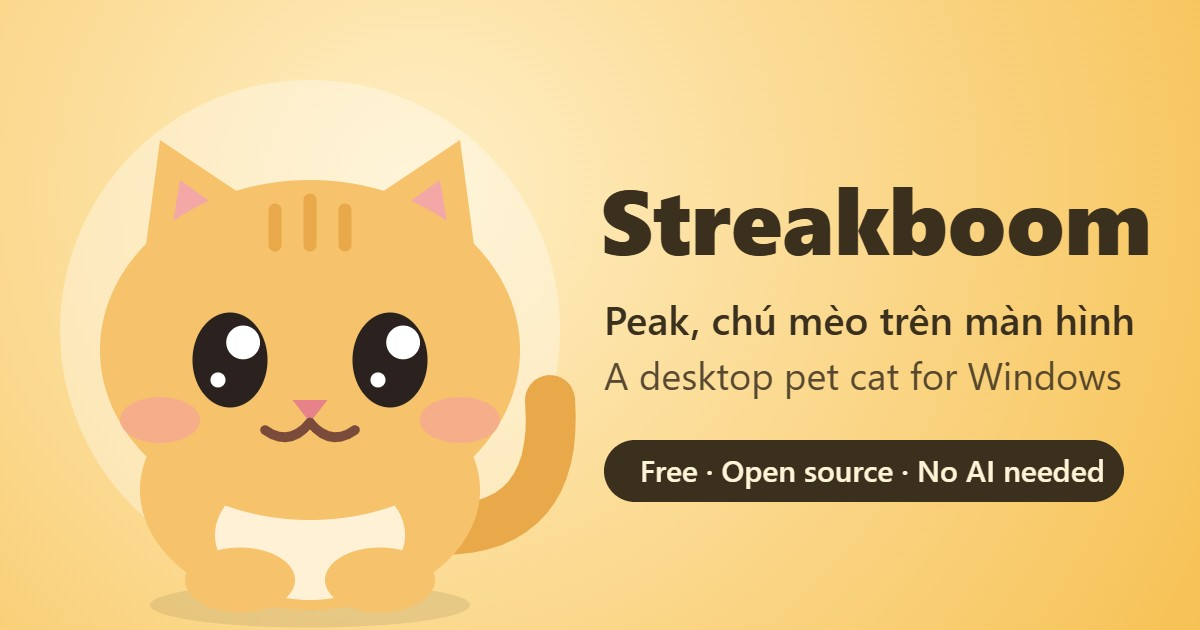
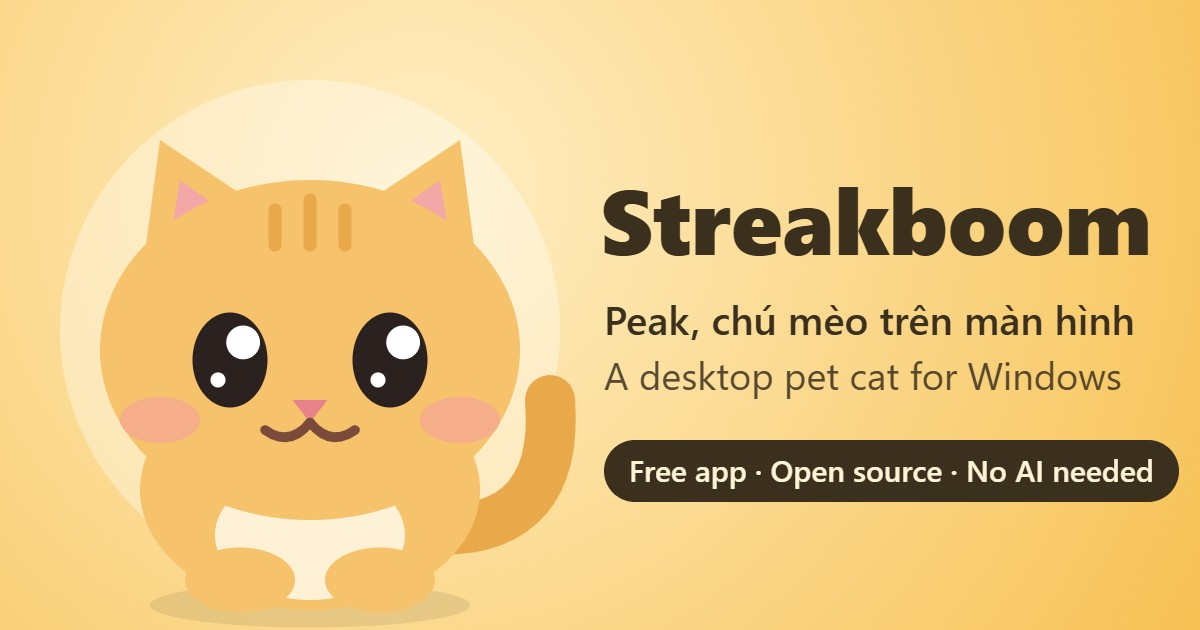
Landing page: read release notes from CHANGELOG.md, sync copy with README
GitHub now keeps only the two newest releases (ADR-0028), so the updates
section reads CHANGELOG.md from the repository (newest three entries,
rendered as text, never as HTML). If that fails it falls back to
updates/latest.json, then to a link to the changelog; the page does not
break. The download button always points at releases/latest and the
install step builds the installer name from the newest changelog version.
The GitHub API is no longer used.

Copy: the AI daily limit and Peak declining in its own words are in the
brain feature; the gentle-tone switch is mentioned; the hero says the app
is free (the AI brain is billed by the provider); the credit line matches
the README (three concept sketches, rig written with Claude, no image
files for the cat, MIT). The share image says "Free app".

README: the Website section now describes the changelog-based updates.

Changed region(s): [[0.5242, 0.6937, 0.9867, 0.8143]]

diff --git a/site/i18n.js b/site/i18n.js
@@ -5,7 +5,7 @@ export const STRINGS = {
     title: "Streakboom: meet Peak, a desktop pet cat",
     nav_features: "Features", nav_install: "Install", nav_privacy: "Privacy", nav_faq: "FAQ", nav_updates: "Updates",
     hero_title: "A little cat that lives on your screen.",
-    hero_lead: "Meet <strong>Peak</strong>, a cheerful golden chibi cat. It reacts when you stroke, poke or carry it, says short lines in Vietnamese or English, and keeps you company. Free and open source, for Windows.",
+    hero_lead: "Meet <strong>Peak</strong>, a cheerful golden chibi cat. It reacts when you stroke, poke or carry it, says short lines in Vietnamese or English, and keeps you company. The app is free and open source, for Windows.",
     download: "Download for Windows", latest_release: "latest release", see_more: "See what it does",
     share_btn: "Send link to my PC", link_copied: "Link copied",
     other_os: "Peak runs on Windows 10/11, so this device cannot install it. Send the link to your PC and download it there.",
@@ -15,9 +15,9 @@ export const STRINGS = {
     pose_idle: "Idle", pose_happy: "Happy", pose_purr: "Purr", pose_sleep: "Sleep", pose_walk: "Walk", pose_gasp: "Surprised", pose_sad: "Sad", pose_curious: "Curious",
     feat_title: "A companion, not an assistant",
     feat_sub: "Lovable with no AI at all. Bring your own key if you want it to chat.",
-    f1_h: "🐈 Alive without AI", f1_p: "A mood and closeness model, 182 hand-written lines per language, quiet hours, and no guilt: it never dies or starves, it only gets a bit lonely.",
+    f1_h: "🐈 Alive without AI", f1_p: "A mood and closeness model, 182 hand-written lines per language (the sarcastic ones can be turned off with \"gentle tone\"), quiet hours, and no guilt: it never dies or starves, it only gets a bit lonely.",
     f2_h: "👆 Gestures, not buttons", f2_p: "Sweep over its head to scratch, over its belly to rub (it usually loves it; sometimes it is a trap), click to poke, drag to carry it. Its eyes follow your cursor when it is over the pet.",
-    f3_h: "🧠 Bring your own brain", f3_p: "Add your own Gemini, Claude or OpenAI key and double-click to chat. It answers in the language you write in, and each answer comes with a feeling the pet acts out. Your key stays on your computer.",
+    f3_h: "🧠 Bring your own brain", f3_p: "Add your own Gemini, Claude or OpenAI key and double-click to chat. Some of its unprompted lines are then written by the model too, within a daily limit (60 chat turns and 6 unprompted lines); when Peak has talked enough it says so in its own words. It answers in the language you write in, and each answer comes with a feeling the pet acts out. Your key stays on your computer.",
     f4_h: "💭 Remembers a little", f4_p: "A name for the pet (you choose; after a day or two it asks), what to call you, a usual part of the day, milestones, and, if you have a brain, a few short facts from your chats (you can switch that off). You can see, edit or forget all of it in Settings, Memory.",
     f5_h: "🤫 Polite", f5_p: "Quiet in fullscreen apps, during quiet hours and in Quiet mode. Never takes keyboard focus for plain speech.",
     f6_h: "🍃 Light", f6_p: "About 100 to 120 MB of memory and almost no CPU while it stands still (measured on one machine so far).",
@@ -45,9 +45,9 @@ export const STRINGS = {
     q4: "Does it work on Mac or Linux?", a4: "Not yet. It is Windows 10/11 only for now. A macOS version is an open idea with no date.",
     q5: "How do I get updates?", a5: "Peak can update itself: install automatically when you are idle, ask first (the default), or never check. Updates are signed and only installed if the signature checks out. If you have an old development build (0.1.x) that does not update itself, install the latest release once by hand; after that it updates normally.",
     upd_title: "Latest updates",
-    upd_sub: "Pulled live from <a href=\"https://github.com/vinhcodon/streakboom/releases\">GitHub Releases</a>. Release notes are in English.",
-    notes_more: "Full notes", loading: "Loading releases…", rss: "Subscribe via RSS", load_fail: "Could not load releases. See GitHub Releases.",
-    foot_a: "MIT License. Made by Vinh Nguyen. Peak is an original character: the author chose the \"mochi cat\" direction from concept sketches proposed by Claude, an AI assistant made by Anthropic, and the animation rig was written with Claude's help. The cat is drawn entirely as vector shapes in code.",
+    upd_sub: "From the <a href=\"https://github.com/vinhcodon/streakboom/blob/main/CHANGELOG.md\">changelog</a> in the repository, newest first. Notes are in English. GitHub Releases keeps only the two newest versions; the changelog keeps them all.",
+    loading: "Loading releases…", rss: "Subscribe to releases (RSS)", load_fail: "Could not load the changelog. Open it on GitHub.",
+    foot_a: "MIT License. Made by Vinh Nguyen. Peak is an original character: the author chose the \"mochi cat\" direction from three concept sketches proposed by Claude, an AI assistant made by Anthropic, and the animation rig was written with Claude's help. The app has no image files for the cat: it is drawn entirely as vector shapes in code, under the same MIT license. The icons and the share image on this site are generated from that same code.",
     foot_bug: "Report a bug",
     f7_h: "🔄 Updates your way",
     f7_p: "It can install updates automatically when you are idle, ask first (the default), or never check. It can also start with Windows (off by default; it asks once, politely).",
@@ -59,12 +59,13 @@ export const STRINGS = {
     a6: "Gemini, Claude and OpenAI are all built in; you bring your own key. Gemini has been tried with a real key. The Claude and OpenAI brains have not yet been tried with real keys, so they may still have rough edges. A Claude Pro/Team or ChatGPT Plus subscription does not include API access; the API is billed separately.",
     q7: "Is there a limit on chatting?",
     a7: "Yes, a daily cap protects your provider's quota and your spending: 60 chat messages and 6 unprompted lines a day. When Peak has talked enough it says so in its own words, with no numbers, and the count resets at midnight.",
+    full_changelog: "Full changelog",
   },
   vi: {
     title: "Streakboom: gặp Peak, chú mèo thú cưng trên màn hình",
     nav_features: "Tính năng", nav_install: "Cài đặt", nav_privacy: "Riêng tư", nav_faq: "Hỏi đáp", nav_updates: "Cập nhật",
     hero_title: "Một chú mèo nhỏ sống trên màn hình của bạn.",
-    hero_lead: "Gặp <strong>Peak</strong>, chú mèo chibi màu vàng vui vẻ. Peak phản ứng khi bạn vuốt ve, chọc hay bế nó, nói vài câu ngắn bằng tiếng Việt hoặc tiếng Anh và ở bên bạn lúc làm việc. Miễn phí, mã nguồn mở, dành cho Windows.",
+    hero_lead: "Gặp <strong>Peak</strong>, chú mèo chibi màu vàng vui vẻ. Peak phản ứng khi bạn vuốt ve, chọc hay bế nó, nói vài câu ngắn bằng tiếng Việt hoặc tiếng Anh và ở bên bạn lúc làm việc. Ứng dụng miễn phí và mã nguồn mở, dành cho Windows.",
     download: "Tải về cho Windows", latest_release: "bản mới nhất", see_more: "Xem Peak làm được gì",
     share_btn: "Gửi liên kết sang máy tính", link_copied: "Đã sao chép liên kết",
     other_os: "Peak chạy trên Windows 10/11 nên thiết bị này không cài được. Hãy gửi liên kết sang máy tính của bạn rồi tải về ở đó.",
@@ -74,9 +75,9 @@ export const STRINGS = {
     pose_idle: "Đứng yên", pose_happy: "Vui", pose_purr: "Rù rù", pose_sleep: "Ngủ", pose_walk: "Đi dạo", pose_gasp: "Giật mình", pose_sad: "Buồn", pose_curious: "Tò mò",
     feat_title: "Một người bạn đồng hành, không phải trợ lý",
     feat_sub: "Đáng yêu mà không cần AI. Muốn trò chuyện thì mang khóa API của riêng bạn.",
-    f1_h: "🐈 Sống động không cần AI", f1_p: "Có mô hình tâm trạng và độ thân thiết, 182 câu viết tay cho mỗi ngôn ngữ, giờ yên tĩnh, và không gây áp lực: nó không chết hay đói, chỉ hơi buồn khi vắng bạn.",
+    f1_h: "🐈 Sống động không cần AI", f1_p: "Có mô hình tâm trạng và độ thân thiết, 182 câu viết tay cho mỗi ngôn ngữ (các câu châm chọc có thể tắt bằng \"giọng nhẹ nhàng\"), giờ yên tĩnh, và không gây áp lực: nó không chết hay đói, chỉ hơi buồn khi vắng bạn.",
     f2_h: "👆 Cử chỉ thay cho nút bấm", f2_p: "Lướt qua đầu để gãi, qua bụng để xoa (thường nó rất thích, nhưng đôi khi là một cái bẫy), bấm để chọc, kéo để xách nó đi. Mắt nó nhìn theo con trỏ khi con trỏ ở trên nó.",
-    f3_h: "🧠 Mang bộ não của riêng bạn", f3_p: "Thêm khóa Gemini, Claude hoặc OpenAI của riêng bạn rồi bấm đúp để trò chuyện. Nó trả lời bằng ngôn ngữ bạn viết, và mỗi câu trả lời đi kèm một cảm xúc mà thú cưng diễn ra. Khóa của bạn chỉ nằm trên máy bạn.",
+    f3_h: "🧠 Mang bộ não của riêng bạn", f3_p: "Thêm khóa Gemini, Claude hoặc OpenAI của riêng bạn rồi bấm đúp để trò chuyện. Một số câu Peak tự nói khi bạn không làm gì cũng do mô hình viết, trong một giới hạn mỗi ngày (60 lượt trò chuyện và 6 câu tự nói); khi đã nói đủ, Peak tự nói điều đó bằng lời của mình. Nó trả lời bằng ngôn ngữ bạn viết, và mỗi câu trả lời đi kèm một cảm xúc mà thú cưng diễn ra. Khóa của bạn chỉ nằm trên máy bạn.",
     f4_h: "💭 Nhớ một chút", f4_p: "Tên cho thú cưng (bạn đặt; sau một hai ngày nó sẽ hỏi), cách gọi bạn, buổi trong ngày bạn hay dùng máy, các cột mốc, và nếu có bộ não thì thêm vài sự thật ngắn từ cuộc trò chuyện (có thể tắt). Bạn xem, sửa hoặc xóa tất cả trong Cài đặt, Bộ nhớ.",
     f5_h: "🤫 Lịch sự", f5_p: "Im lặng khi bạn dùng ứng dụng toàn màn hình, trong giờ yên tĩnh và ở chế độ Yên tĩnh. Không giành bàn phím khi chỉ nói chuyện thường.",
     f6_h: "🍃 Nhẹ", f6_p: "Khoảng 100 đến 120 MB bộ nhớ và gần như không tốn CPU khi đứng yên (mới đo trên một máy).",
@@ -104,9 +105,9 @@ export const STRINGS = {
     q4: "Có chạy trên Mac hoặc Linux không?", a4: "Chưa. Hiện chỉ có Windows 10/11. Bản macOS mới chỉ là ý tưởng, chưa có thời gian cụ thể.",
     q5: "Làm sao để nhận bản cập nhật?", a5: "Peak có thể tự cập nhật: tự cài khi bạn rảnh, hỏi trước (mặc định), hoặc không kiểm tra. Bản cập nhật được ký số và chỉ cài khi chữ ký hợp lệ. Nếu bạn đang dùng bản phát triển cũ (0.1.x) không tự cập nhật được, hãy cài bản mới nhất thủ công một lần; sau đó nó cập nhật bình thường.",
     upd_title: "Cập nhật mới nhất",
-    upd_sub: "Lấy trực tiếp từ <a href=\"https://github.com/vinhcodon/streakboom/releases\">GitHub Releases</a>. Ghi chú phát hành bằng tiếng Anh.",
-    notes_more: "Xem đầy đủ", loading: "Đang tải các bản phát hành…", rss: "Đăng ký qua RSS", load_fail: "Không tải được danh sách bản phát hành. Xem GitHub Releases.",
-    foot_a: "Giấy phép MIT. Tác giả Vinh Nguyen. Peak là nhân vật gốc: tác giả chọn hướng \"mèo mochi\" từ các bản phác thảo do Claude, một trợ lý AI của Anthropic, đề xuất, và bộ khung hoạt họa được viết với sự hỗ trợ của Claude. Chú mèo được vẽ hoàn toàn bằng các hình vector trong mã.",
+    upd_sub: "Lấy từ <a href=\"https://github.com/vinhcodon/streakboom/blob/main/CHANGELOG.md\">changelog</a> trong kho mã, mới nhất ở trên. Ghi chú bằng tiếng Anh. GitHub Releases chỉ giữ hai phiên bản mới nhất; changelog giữ tất cả.",
+    loading: "Đang tải các bản phát hành…", rss: "Đăng ký theo dõi bản phát hành (RSS)", load_fail: "Không tải được changelog. Mở nó trên GitHub.",
+    foot_a: "Giấy phép MIT. Tác giả Vinh Nguyen. Peak là nhân vật gốc: tác giả chọn hướng \"mèo mochi\" từ ba bản phác thảo do Claude, một trợ lý AI của Anthropic, đề xuất, và bộ khung hoạt họa được viết với sự hỗ trợ của Claude. Ứng dụng không có file ảnh nào cho chú mèo: nó được vẽ hoàn toàn bằng các hình vector trong mã, cùng giấy phép MIT. Biểu tượng và ảnh chia sẻ trên trang này được tạo ra từ chính đoạn mã đó.",
     foot_bug: "Báo lỗi",
     f7_h: "🔄 Cập nhật theo ý bạn",
     f7_p: "Peak có thể tự cài bản cập nhật khi bạn rảnh, hỏi trước (mặc định), hoặc không kiểm tra. Nó cũng có thể khởi động cùng Windows (mặc định tắt; nó chỉ hỏi một lần, lịch sự).",
@@ -118,6 +119,7 @@ export const STRINGS = {
     a6: "Gemini, Claude và OpenAI đều được tích hợp sẵn; bạn mang khóa của riêng mình. Gemini đã được thử với khóa thật. Bộ não Claude và OpenAI chưa được thử với khóa thật nên có thể còn trục trặc. Gói Claude Pro/Team hay ChatGPT Plus không bao gồm quyền truy cập API; API được tính phí riêng.",
     q7: "Trò chuyện có bị giới hạn không?",
     a7: "Có, một mức trần mỗi ngày để bảo vệ hạn mức và chi phí của bạn ở nhà cung cấp: 60 tin nhắn trò chuyện và 6 câu Peak tự nói mỗi ngày. Khi Peak đã nói đủ, nó tự nói điều đó bằng lời của mình, không có con số, và bộ đếm được đặt lại lúc nửa đêm.",
+    full_changelog: "Toàn bộ changelog",
   },
 };
 

diff --git a/site/app.js b/site/app.js
@@ -1,72 +1,85 @@
-// Entry point: language, the interactive Peak, and the download button and updates list from GitHub Releases.
-// If the API fails or is rate limited, the static fallback links in index.html still work.
+// Entry point: language, the interactive Peak, the download button and the "updates" list.
+// The download button always points at the latest release page (never at a version-specific link, since
+// GitHub keeps only the two newest releases). The version, date and notes come from CHANGELOG.md in the
+// repository, so a new release needs no change here.
 import { applyLang, lang, t } from "./i18n.js";
 import { startPeak } from "./peak.js";
 
 const REPO = "vinhcodon/streakboom";
-const API = `https://api.github.com/repos/${REPO}/releases?per_page=5`;
-const MANIFEST = `https://raw.githubusercontent.com/${REPO}/main/updates/latest.json`;
+const RAW = `https://raw.githubusercontent.com/${REPO}/main`;
+const CHANGELOG_URL = `${RAW}/CHANGELOG.md`;
+const MANIFEST_URL = `${RAW}/updates/latest.json`; // fallback: newest version and its notes only
+const CHANGELOG_PAGE = `https://github.com/${REPO}/blob/main/CHANGELOG.md`;
+const SHOW = 3; // newest entries shown
 
-const btn = document.getElementById("download-btn");
 const meta = document.getElementById("download-meta");
 const list = document.getElementById("release-list");
-let releases = null;
+let entries = null; // [{ version, date, title, items: [text] }] newest first, or null while loading
 let failed = false;
 
-const fmtDate = (iso) => new Date(iso).toLocaleDateString(lang === "vi" ? "vi-VN" : "en-US", { year: "numeric", month: "short", day: "numeric" });
+const fmtDate = (iso) => {
+  const d = new Date(iso);
+  return isNaN(d) ? "" : d.toLocaleDateString(lang === "vi" ? "vi-VN" : "en-US", { year: "numeric", month: "short", day: "numeric" });
+};
+
+/** "## 0.2.1 (2026-11-08), a title" headings, each followed by "- " bullets (wrapped lines are joined). */
+export function parseChangelog(text) {
+  const out = [];
+  let cur = null;
+  for (const raw of text.split(/\r?\n/)) {
+    const h = raw.match(/^##\s+(\d+\.\d+\.\d+[^\s(]*)\s*(?:\((\d{4}-\d{2}-\d{2})\))?\s*,?\s*(.*)$/);
+    if (h) {
+      cur = { version: h[1], date: h[2] || "", title: h[3].trim(), items: [] };
+      out.push(cur);
+    } else if (/^#{1,2}\s/.test(raw)) {
+      cur = null; // some other heading ends the entry
+    } else if (cur && /^-\s+/.test(raw)) {
+      cur.items.push(raw.replace(/^-\s+/, "").trim());
+    } else if (cur && cur.items.length && /^\s+\S/.test(raw)) {
+      cur.items[cur.items.length - 1] += " " + raw.trim();
+    }
+  }
+  return out.filter((e) => e.items.length);
+}
 
 function renderReleases() {
   list.textContent = "";
   if (failed) {
     const li = document.createElement("li");
     const a = document.createElement("a");
-    a.href = `https://github.com/${REPO}/releases`;
+    a.href = CHANGELOG_PAGE;
     a.textContent = t("load_fail");
     li.append(a);
     list.append(li);
     return;
   }
-  if (!releases) return;
-  for (const r of releases) {
+  if (!entries) return;
+  for (const e of entries.slice(0, SHOW)) {
     const li = document.createElement("li");
     const h = document.createElement("h3");
-    const a = document.createElement("a");
-    a.href = r.html_url;
-    a.textContent = r.name || r.tag_name;
-    h.append(a);
+    h.textContent = `Streakboom ${e.version}`;
     const m = document.createElement("div");
     m.className = "meta";
-    m.textContent = fmtDate(r.published_at);
-    li.append(h, m);
-    if (r.body) {
-      const pre = document.createElement("pre");
-      pre.textContent = r.body; // textContent: release notes are never injected as HTML
-      const more = document.createElement("a");
-      more.className = "more";
-      more.href = r.html_url;
-      more.textContent = t("notes_more");
-      li.append(pre, more);
+    m.textContent = [e.date && fmtDate(e.date), e.title].filter(Boolean).join(" · ");
+    const ul = document.createElement("ul");
+    for (const text of e.items) {
+      const item = document.createElement("li");
+      item.textContent = text; // textContent: changelog text is never injected as HTML
+      ul.append(item);
     }
+    li.append(h, m, ul);
     list.append(li);
   }
 }
 
 function renderDownload() {
-  const latest = releases?.[0];
+  const latest = entries?.[0];
   if (!latest) return;
-  const exe = latest.assets.find((a) => a.name.endsWith("-setup.exe"));
-  // the install step names the real file; with no asset list (manifest fallback) the name follows the version
+  // the install step names the real file for the current version
   const exeName = document.getElementById("exe-name");
-  if (exeName) exeName.textContent = exe ? exe.name : `Streakboom_${latest.tag_name.replace(/^v/, "")}_x64-setup.exe`;
+  if (exeName) exeName.textContent = `Streakboom_${latest.version}_x64-setup.exe`;
   meta.removeAttribute("data-i18n");
-  if (exe) {
-    btn.href = exe.browser_download_url;
-    document.getElementById("direct-dl").href = exe.browser_download_url;
-    meta.textContent = `${latest.tag_name} · ${(exe.size / 1048576).toFixed(0)} MB · ${fmtDate(latest.published_at)}`;
-  } else {
-    // no direct link known: the button keeps pointing at "releases/latest"
-    meta.textContent = `${latest.tag_name} · ${fmtDate(latest.published_at)}`;
-  }
+  meta.textContent = [`v${latest.version}`, latest.date && fmtDate(latest.date)].filter(Boolean).join(" · ");
 }
 
 // Peak is Windows only. On a phone, a Mac or Linux the .exe is useless, so offer to send the link to a PC instead.
@@ -102,37 +115,28 @@ applyLang();
 
 startPeak(document.getElementById("peak"), document.getElementById("poses"));
 
-// The GitHub API sometimes answers 5xx or is rate limited. The release script also commits the update
-// manifest to the repository (served by raw.githubusercontent.com, which stayed up when the API did not),
-// so if the API fails we still show the latest version and its notes from there.
-async function getJson(url, headers) {
-  const res = await fetch(url, { headers, signal: AbortSignal.timeout(8000) });
+async function getText(url) {
+  const res = await fetch(url, { signal: AbortSignal.timeout(8000) });
   if (!res.ok) throw new Error(res.status);
-  return res.json();
+  return res.text();
 }
 
-async function loadReleases() {
+async function loadEntries() {
   try {
-    const list = (await getJson(API, { Accept: "application/vnd.github+json" })).filter((r) => !r.draft && !r.prerelease);
-    if (list.length) return list;
+    const parsed = parseChangelog(await getText(CHANGELOG_URL));
+    if (parsed.length) return parsed;
   } catch {
-    // fall through to the manifest
+    // fall through to the update manifest
   }
-  const m = await getJson(MANIFEST);
-  return [{
-    name: `Streakboom ${m.version}`,
-    tag_name: `v${m.version}`,
-    html_url: `https://github.com/${REPO}/releases/latest`,
-    published_at: m.pub_date,
-    body: m.notes,
-    assets: [],
-  }];
+  // the manifest (committed by the release script) has the newest version and its notes as one paragraph
+  const m = JSON.parse(await getText(MANIFEST_URL));
+  return [{ version: m.version, date: (m.pub_date || "").slice(0, 10), title: "", items: [m.notes].filter(Boolean) }];
 }
 
 try {
-  releases = await loadReleases();
+  entries = await loadEntries();
 } catch {
-  failed = true;
+  failed = true; // offline or blocked: the download button and the links still work
 }
 renderReleases();
 renderDownload();

diff --git a/site/index.html b/site/index.html
@@ -53,7 +53,7 @@
     <section class="hero">
       <div class="hero-text">
         <h1 data-i18n="hero_title">A little cat that lives on your screen.</h1>
-        <p class="lead" data-i18n-html="hero_lead">Meet <strong>Peak</strong>, a cheerful golden chibi cat. It reacts when you stroke, poke or carry it, says short lines in Vietnamese or English, and keeps you company. Free and open source, for Windows.</p>
+        <p class="lead" data-i18n-html="hero_lead">Meet <strong>Peak</strong>, a cheerful golden chibi cat. It reacts when you stroke, poke or carry it, says short lines in Vietnamese or English, and keeps you company. The app is free and open source, for Windows.</p>
         <div class="cta">
           <a id="download-btn" class="btn primary" href="https://github.com/vinhcodon/streakboom/releases/latest">
             <span data-i18n="download">Download for Windows</span>
@@ -82,9 +82,9 @@
       <h2 data-i18n="feat_title">A companion, not an assistant</h2>
       <p class="sub" data-i18n="feat_sub">Lovable with no AI at all. Bring your own key if you want it to chat.</p>
       <div class="grid">
-        <article class="card"><h3 data-i18n="f1_h">🐈 Alive without AI</h3><p data-i18n="f1_p">A mood and closeness model, 182 hand-written lines per language, quiet hours, and no guilt: it never dies or starves, it only gets a bit lonely.</p></article>
+        <article class="card"><h3 data-i18n="f1_h">🐈 Alive without AI</h3><p data-i18n="f1_p">A mood and closeness model, 182 hand-written lines per language (the sarcastic ones can be turned off with "gentle tone"), quiet hours, and no guilt: it never dies or starves, it only gets a bit lonely.</p></article>
         <article class="card"><h3 data-i18n="f2_h">👆 Gestures, not buttons</h3><p data-i18n="f2_p">Sweep over its head to scratch, over its belly to rub (it usually loves it; sometimes it is a trap), click to poke, drag to carry it. Its eyes follow your cursor when it is over the pet.</p></article>
-        <article class="card"><h3 data-i18n="f3_h">🧠 Bring your own brain</h3><p data-i18n="f3_p">Add your own Gemini, Claude or OpenAI key and double-click to chat. It answers in the language you write in, and each answer comes with a feeling the pet acts out. Your key stays on your computer.</p></article>
+        <article class="card"><h3 data-i18n="f3_h">🧠 Bring your own brain</h3><p data-i18n="f3_p">Add your own Gemini, Claude or OpenAI key and double-click to chat. Some of its unprompted lines are then written by the model too, within a daily limit (60 chat turns and 6 unprompted lines); when Peak has talked enough it says so in its own words. It answers in the language you write in, and each answer comes with a feeling the pet acts out. Your key stays on your computer.</p></article>
         <article class="card"><h3 data-i18n="f4_h">💭 Remembers a little</h3><p data-i18n="f4_p">A name for the pet (you choose; after a day or two it asks), what to call you, a usual part of the day, milestones, and, if you have a brain, a few short facts from your chats (you can switch that off). You can see, edit or forget all of it in Settings, Memory.</p></article>
         <article class="card"><h3 data-i18n="f5_h">🤫 Polite</h3><p data-i18n="f5_p">Quiet in fullscreen apps, during quiet hours and in Quiet mode. Never takes keyboard focus for plain speech.</p></article>
         <article class="card"><h3 data-i18n="f6_h">🍃 Light</h3><p data-i18n="f6_p">About 100 to 120 MB of memory and almost no CPU while it stands still (measured on one machine so far).</p></article>
@@ -147,17 +147,17 @@
     <!-- UPDATES (filled from GitHub Releases by app.js) -->
     <section id="updates" class="section alt">
       <h2 data-i18n="upd_title">Latest updates</h2>
-      <p class="sub" data-i18n-html="upd_sub">Pulled live from <a href="https://github.com/vinhcodon/streakboom/releases">GitHub Releases</a>. Release notes are in English.</p>
+      <p class="sub" data-i18n-html="upd_sub">From the <a href="https://github.com/vinhcodon/streakboom/blob/main/CHANGELOG.md">changelog</a> in the repository, newest first. Notes are in English. GitHub Releases keeps only the two newest versions; the changelog keeps them all.</p>
       <ol id="release-list" class="releases" aria-live="polite">
         <li class="loading" data-i18n="loading">Loading releases…</li>
       </ol>
-      <p><a href="https://github.com/vinhcodon/streakboom/releases.atom" data-i18n="rss">Subscribe via RSS</a></p>
+      <p class="links"><a href="https://github.com/vinhcodon/streakboom/blob/main/CHANGELOG.md" data-i18n="full_changelog">Full changelog</a> · <a href="https://github.com/vinhcodon/streakboom/releases.atom" data-i18n="rss">Subscribe to releases (RSS)</a></p>
     </section>
 
   </main>
 
   <footer class="footer">
-    <p data-i18n="foot_a">MIT License. Made by Vinh Nguyen. Peak is an original character: the author chose the "mochi cat" direction from concept sketches proposed by Claude, an AI assistant made by Anthropic, and the animation rig was written with Claude's help. The cat is drawn entirely as vector shapes in code.</p>
+    <p data-i18n="foot_a">MIT License. Made by Vinh Nguyen. Peak is an original character: the author chose the "mochi cat" direction from three concept sketches proposed by Claude, an AI assistant made by Anthropic, and the animation rig was written with Claude's help. The app has no image files for the cat: it is drawn entirely as vector shapes in code, under the same MIT license. The icons and the share image on this site are generated from that same code.</p>
     <p><a href="https://github.com/vinhcodon/streakboom">Source</a> · <a href="https://github.com/vinhcodon/streakboom/issues" data-i18n="foot_bug">Report a bug</a></p>
   </footer>
 

diff --git a/site/style.css b/site/style.css
@@ -135,15 +135,11 @@ summary { cursor: pointer; font-weight: 600; padding: 10px 0; }
 details p { margin: 0 0 12px; color: var(--muted); }
 
 .releases { list-style: none; padding: 0; display: grid; gap: 14px; max-width: 760px; }
-.releases li { background: var(--card); border-radius: var(--radius); padding: 16px 20px; }
+.releases > li { background: var(--card); border-radius: var(--radius); padding: 16px 20px; }
 .releases h3 { margin-bottom: .2em; font-size: 1.1rem; }
 .releases .meta { color: var(--muted); font-size: .85rem; }
-/* long notes are cut to a few lines; the title and "Full notes" open the whole release */
-.releases pre {
-  white-space: pre-wrap; overflow-wrap: anywhere; font: inherit; margin: .5em 0 0;
-  display: -webkit-box; -webkit-box-orient: vertical; -webkit-line-clamp: 5; line-clamp: 5; overflow: hidden;
-}
-.releases .more { display: inline-block; margin-top: .4em; font-size: .9rem; }
+.releases ul { margin: .6em 0 0; padding-left: 1.2em; }
+.releases ul li { margin: .35em 0; }
 
 .footer {
   padding-top: 32px; padding-bottom: 48px;

diff --git a/scripts/gen-assets.html b/scripts/gen-assets.html
@@ -127,10 +127,10 @@ function share() {
   x.fillText("A desktop pet cat for Windows", 604, 390);
   // pill
   x.fillStyle = INK;
-  x.beginPath(); x.roundRect(604, 440, 520, 62, 31); x.fill();
+  x.beginPath(); x.roundRect(604, 440, 575, 62, 31); x.fill();
   x.fillStyle = "#fff4d6";
   x.font = "600 30px 'Segoe UI', system-ui, sans-serif";
-  x.fillText("Free · Open source · No AI needed", 640, 482);
+  x.fillText("Free app · Open source · No AI needed", 629, 482);
   return c;
 }
 

diff --git a/README.md b/README.md
@@ -125,7 +125,7 @@ The app reads the manifest from that repository copy first and from the release 
 
 ## Website 🌐
 
-The site in `site/` is a single static page with no framework: hero with an interactive Peak, features, install steps, privacy, FAQ and the latest releases, in English and Vietnamese. The download button, version and release notes are read from GitHub Releases when the page loads (with the manifest in `updates/latest.json` as a fallback), so a new release needs no change to the site. On phones and non-Windows computers the download is replaced by "send the link to my PC".
+The site in `site/` is a single static page with no framework: hero with an interactive Peak, features, install steps, privacy, FAQ and the latest releases, in English and Vietnamese. The download button always points at the latest release page (GitHub keeps only the two newest releases, so the page never links to a version-specific file). The version and the notes of the newest versions are read from `CHANGELOG.md` in the repository when the page loads, with `updates/latest.json` as the fallback, so a new release needs no change to the site as long as it has its `CHANGELOG.md` entry (the release script requires one). On phones and non-Windows computers the download is replaced by "send the link to my PC".
 
 - **Peak on the page is the app's own cat.** `scripts/build-site.mjs` turns `app/src/lib/rig/*.ts` into browser JavaScript in `site/peak/` (generated, git-ignored), so the page cannot drift from the app. Needs Node 22.13 or newer.
 - **Preview:** `node scripts/site-dev.mjs`, then open `http://localhost:4173`.
